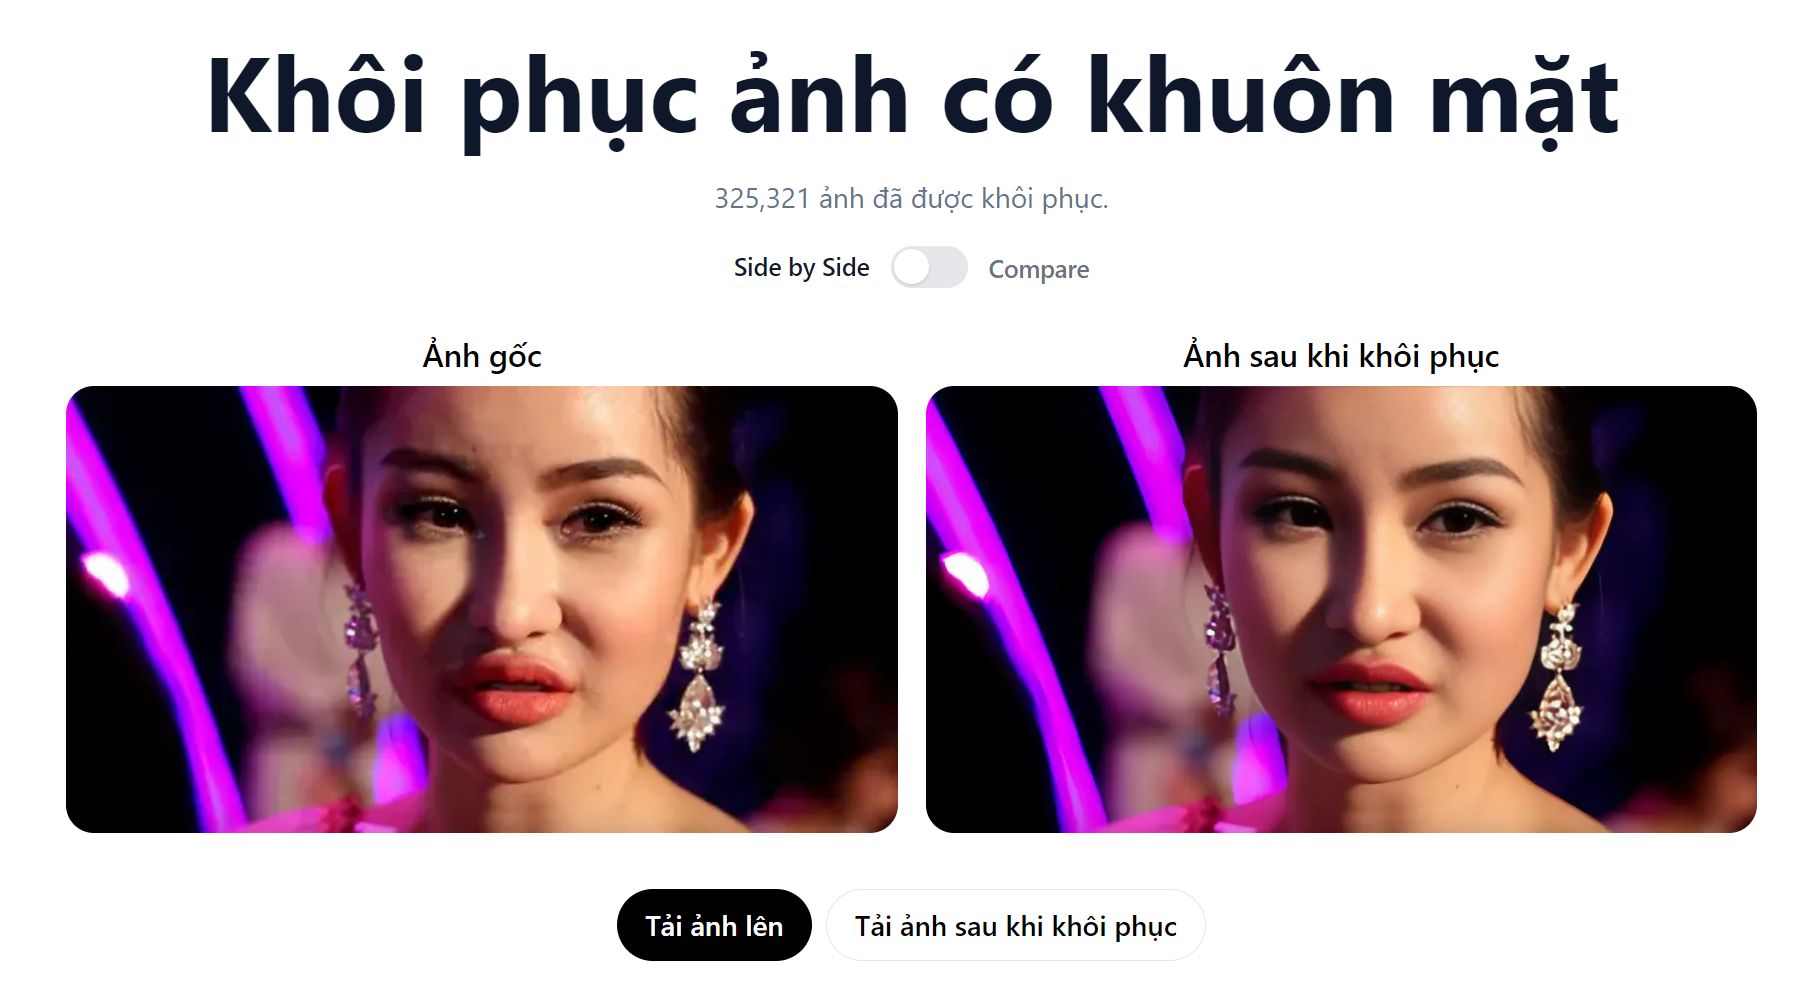
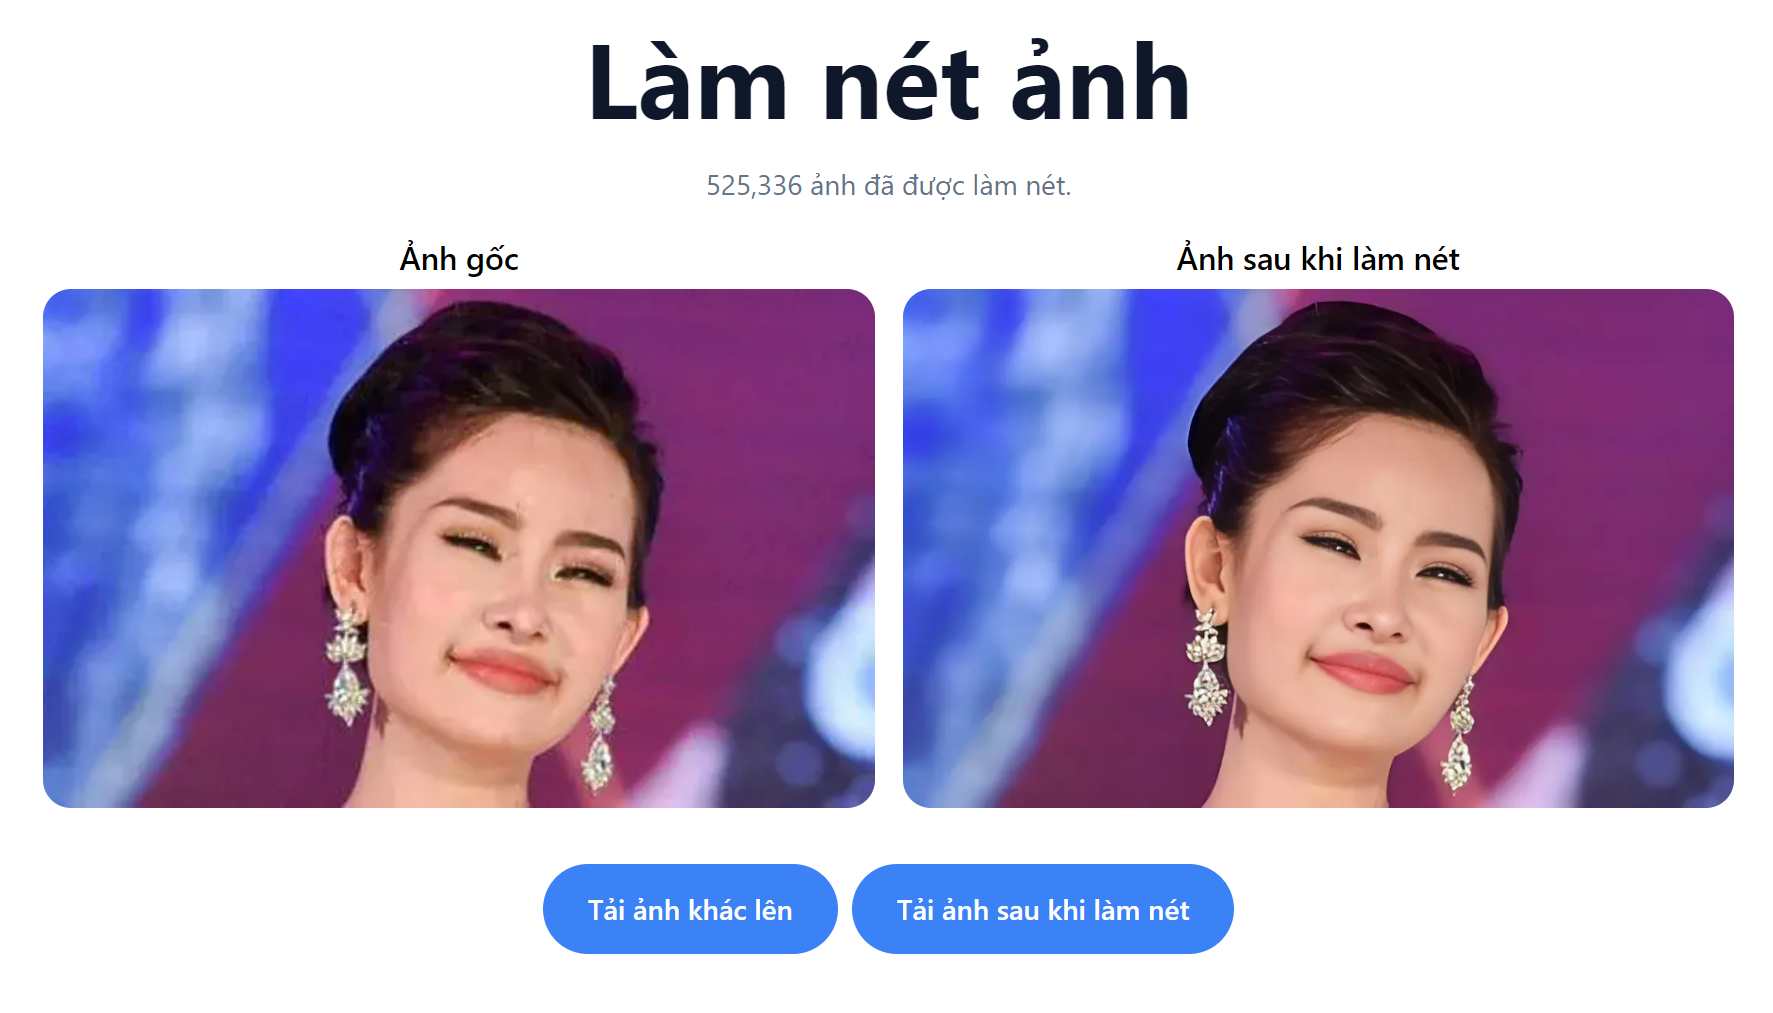
optimize the interfeace

diff --git a/pages/restore.tsx b/pages/restore.tsx
@@ -109,14 +109,15 @@ const Home: NextPage = () => {
           Are you a developer and want to learn how I built this? Watch the{" "}
           <span className="font-bold">YouTube tutorial</span>.
         </a> */}
-        <h1 className="mx-auto max-w-4xl font-display text-4xl font-bold tracking-normal text-slate-900 sm:text-6xl mb-5">
-          Khôi phục ảnh
+        <h1 className="mx-auto max-w-4xl font-display text-4xl font-bold tracking-normal text-green-500 sm:text-5xl mb-5">
+          Làm nét ảnh
         </h1>
+
         <p className="text-slate-500">
           {" "}
           {/* Obtained this number from Vercel: based on how many serverless invocations happened. */}
           <CountUp start={100000} end={525336} duration={2} separator="," />{" "}
-          ảnh đã được khôi phục.
+          ảnh đã được làm nét.
         </p>
         <ResizablePanel>
           <AnimatePresence exitBeforeEnter>
@@ -155,7 +156,7 @@ const Home: NextPage = () => {
                     />
                   </div>
                   <div className="sm:mt-0 mt-8">
-                    <h2 className="mb-1 font-medium text-lg">Ảnh sau khi khôi phục</h2>
+                    <h2 className="mb-1 font-medium text-lg">Ảnh sau khi làm nét</h2>
                     <a href={restoredImage} target="_blank" rel="noreferrer">
                       <Image
                         alt="restored photo"
@@ -211,7 +212,7 @@ const Home: NextPage = () => {
                     }}
                     className="bg-blue-500 hover:bg-blue-600 focus:outline-none focus:ring-2 focus:ring-blue-600 focus:ring-opacity-50 text-white font-medium rounded-full px-6 py-3 mt-8 border-2 border-blue-500"
                   >
-                    Tải ảnh sau khi khôi phục
+                    Tải ảnh sau khi làm nét
                   </button>
                 )}
               </div>

diff --git a/pages/index.tsx b/pages/index.tsx
@@ -26,7 +26,7 @@ const Home: NextPage = () => {
         </a>
         <div className="max-w-4xl">
           <h1 className="text-5xl sm:text-7xl font-bold font-display text-gray-800 mb-8">
-            Khôi phục ảnh cũ{" "}
+            Làm nét ảnh cũ{" "}
             <span className="relative text-blue-500">
               {/* <SquigglyLines /> */}
               <span className="relative font-bold">sử dụng trí tuệ nhân tạo (AI)</span>
@@ -35,7 +35,7 @@ const Home: NextPage = () => {
           </h1>
 
           <p className="mx-auto mt-12 max-w-xl text-lg text-slate-700 leading-7">
-            Bạn có ảnh cũ và khuôn mặt bị mờ? Hãy để AI khôi phục chúng nhé. 100% miễn phí!
+            Bạn có ảnh cũ và khuôn mặt bị mờ? Hãy để AI làm nét chúng nhé. 100% miễn phí!
           </p>
           <div className="flex justify-center space-x-4 mb-16">
             {/* <a
@@ -51,7 +51,7 @@ const Home: NextPage = () => {
               className="bg-blue-500 hover:bg-blue-600 rounded-xl text-white font-medium px-4 py-3 sm:mt-10 mt-8"
               href="/restore"
             >
-              Khôi phục ảnh của bạn
+              Làm nét ảnh của bạn
             </Link>
           </div>
           <div className="flex justify-between items-center w-full flex-col sm:mt-10 mt-6">
@@ -70,7 +70,7 @@ const Home: NextPage = () => {
                   </div>
                 </div>
                 <div className="sm:mt-0 mt-8">
-                  <h2 className="text-lg font-medium mb-2">Ảnh sau khi khôi phục</h2>
+                  <h2 className="text-lg font-medium mb-2">Ảnh sau khi làm nét</h2>
                   <div className="w-96 h-96 rounded-2xl overflow-hidden">
                     <Image
                       alt="Restored photo of my bro"

diff --git a/components/Header.tsx b/components/Header.tsx
@@ -4,31 +4,39 @@ import Link from "next/link";
 export default function Header() {
   return (
     <header className="flex justify-between items-center w-full mt-5 border-b-2 pb-7 sm:px-4 px-2">
-      <Link href="/" className="flex space-x-2">
-        <Image
-          alt="header text"
-          src="/imageIcon.png"
-          className="sm:w-14 sm:h-14 w-9 h-9"
-          width={36}
-          height={36}
-        />
-        <h1 className="sm:text-5xl text-3xl font-bold ml-2 tracking-tight">
-          Khôi phục ảnh cũ
+      <Link href="/" className="flex items-center space-x-2">
+        <div className="w-12 h-12 flex justify-center items-center bg-gray-200 rounded-full overflow-hidden">
+          <Image
+            alt="header text"
+            src="/imageIcon.png"
+            className="object-cover w-full h-full"
+            width={48}
+            height={48}
+          />
+        </div>
+        <h1 className="relative text-blue-500 sm:text-5xl text-3xl font-bold ml-2 tracking-tight font-montserrat">
+          Làm nét ảnh cũ
         </h1>
       </Link>
+
+
       <a
-       href="https://play.google.com/store/apps/details?id=com.dancargame.test"
+        href="https://play.google.com/store/apps/details?id=com.dancargame.test"
         target="_blank"
         rel="noreferrer"
+        className="flex items-center space-x-1 text-orange-500 hover:text-orange-600"
       >
         <Image
           alt="Dan Car Game"
           src="/vercelLogo.png"
-          className="sm:w-10 sm:h-[34px] w-8 h-[28px]"
+          className="sm:w-10 sm:h-[34px] w-8 h-[28px] rounded-full rounded-none sm:rounded-none sm:rounded-r-full"
           width={32}
           height={28}
         />
+        <span className="text-lg font-semibold">Dan Car Game</span>
       </a>
     </header>
+
+
   );
 }
